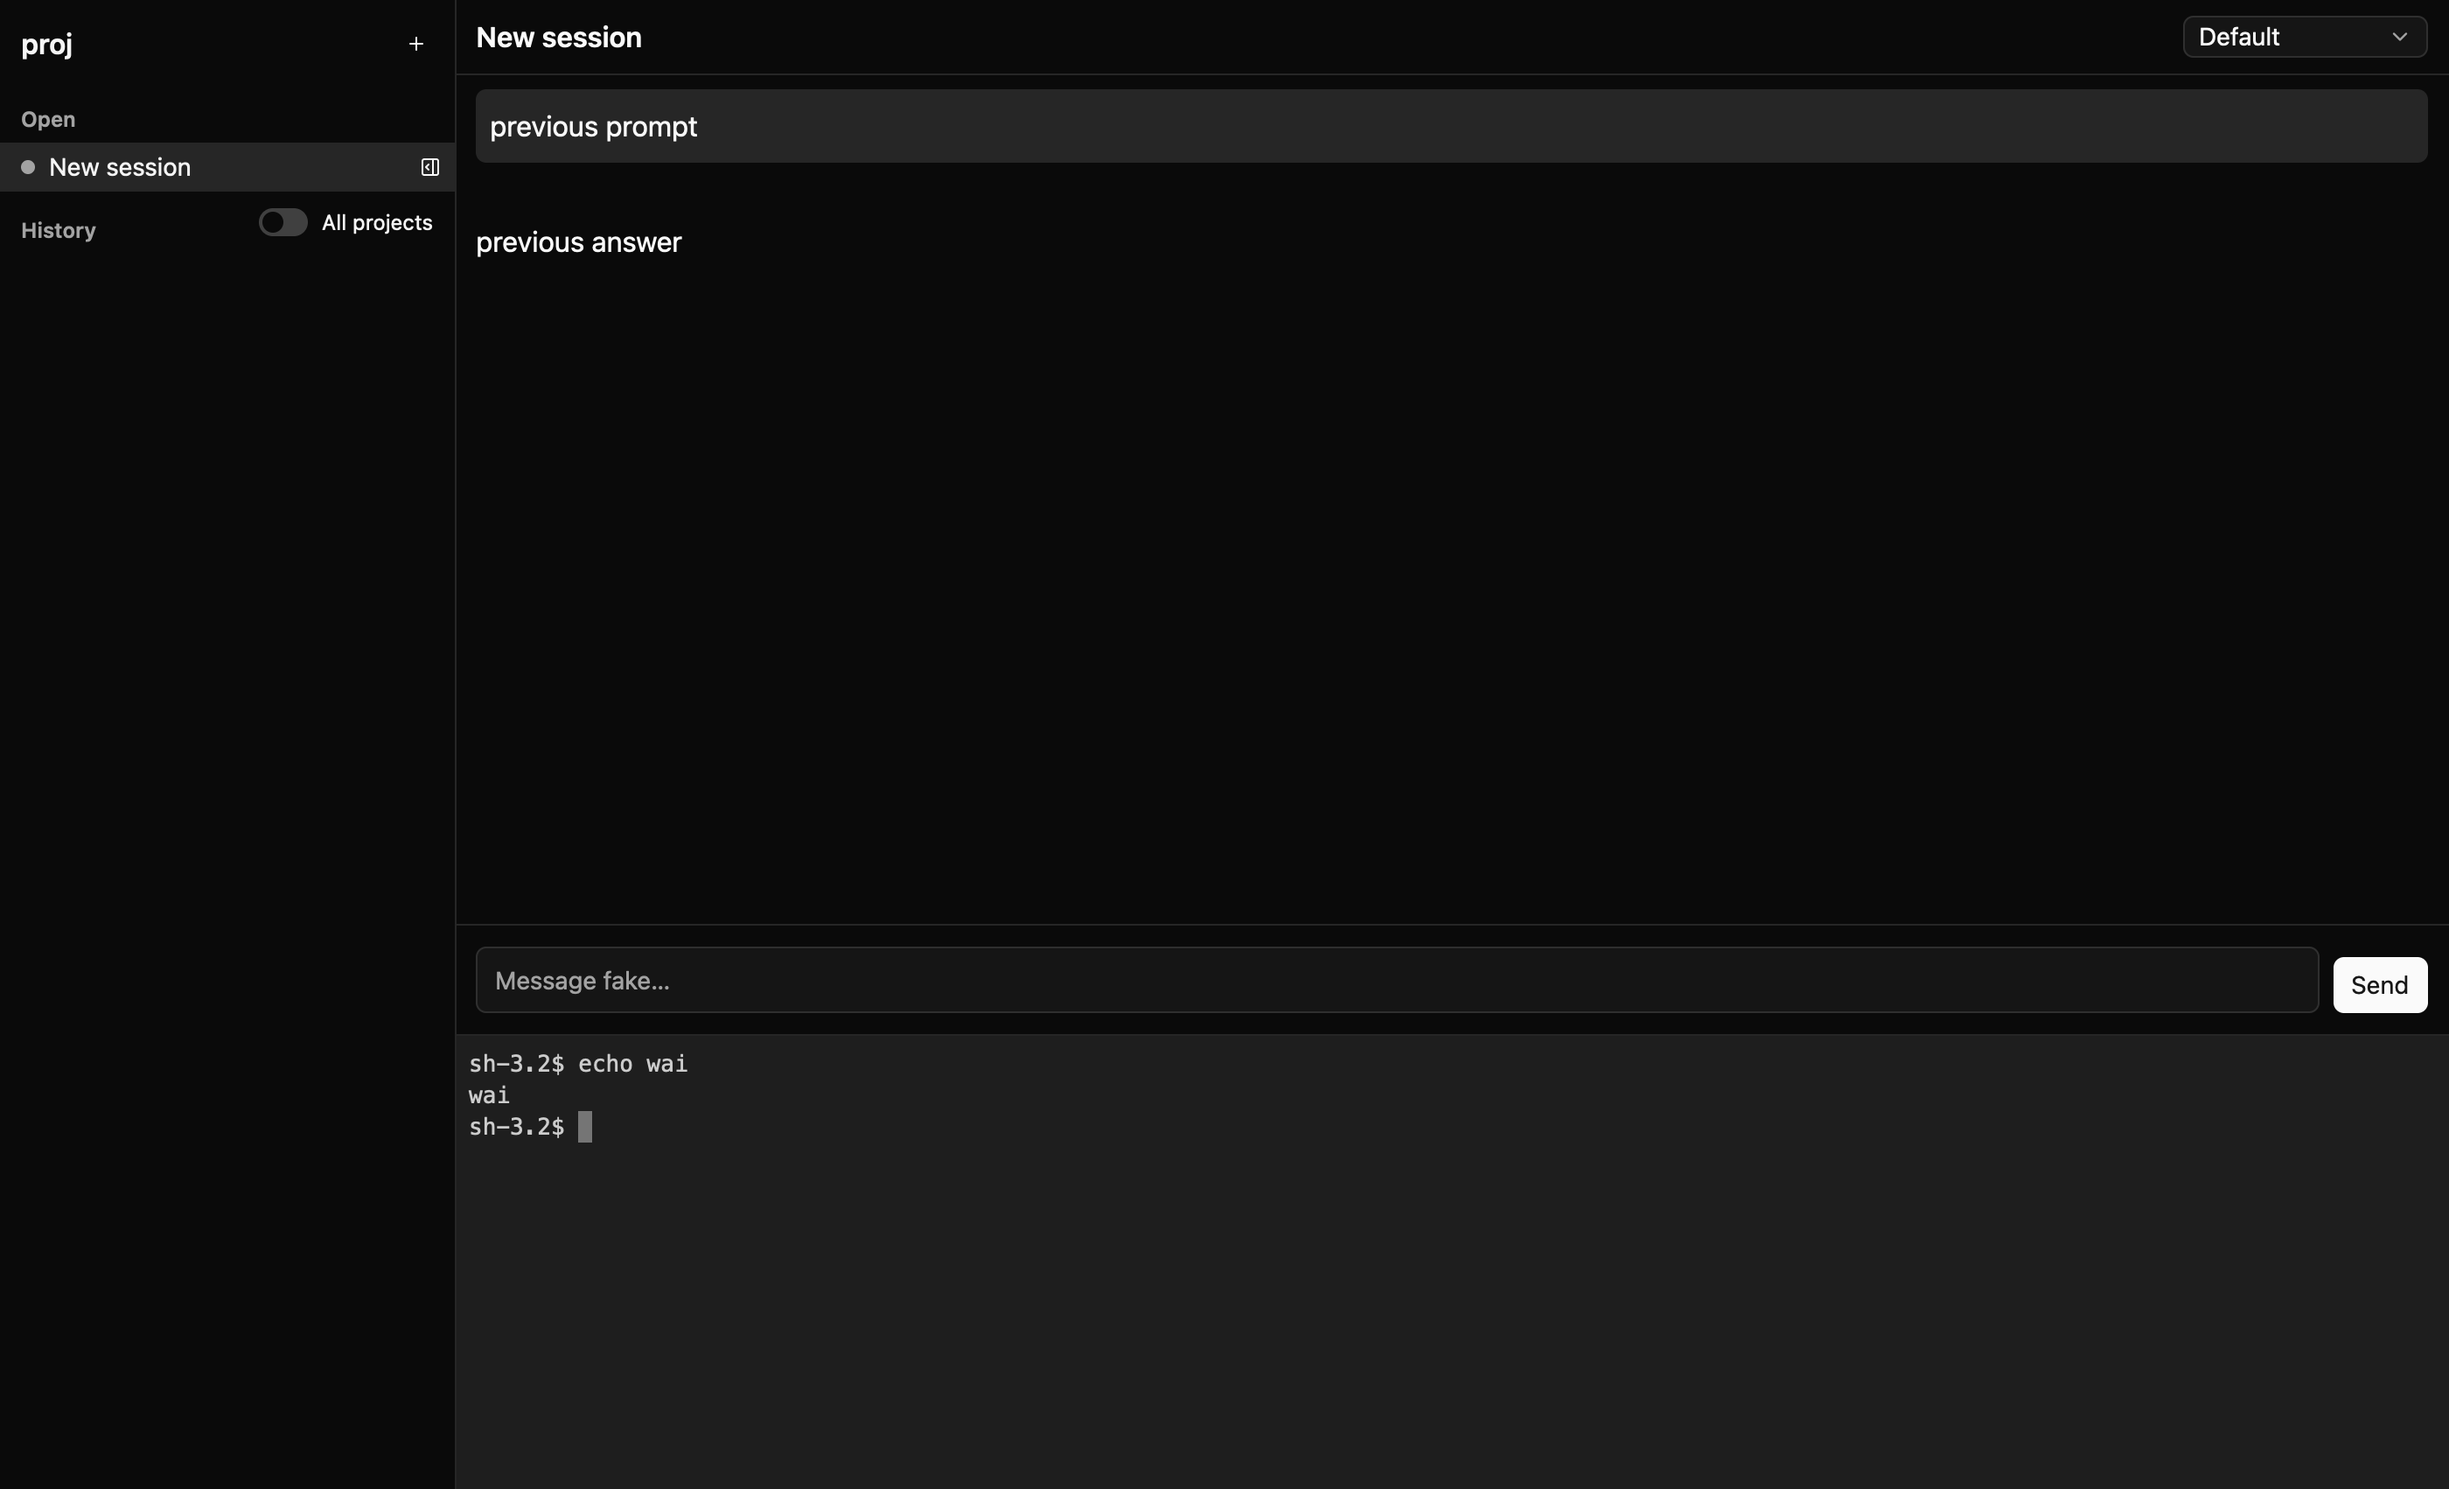
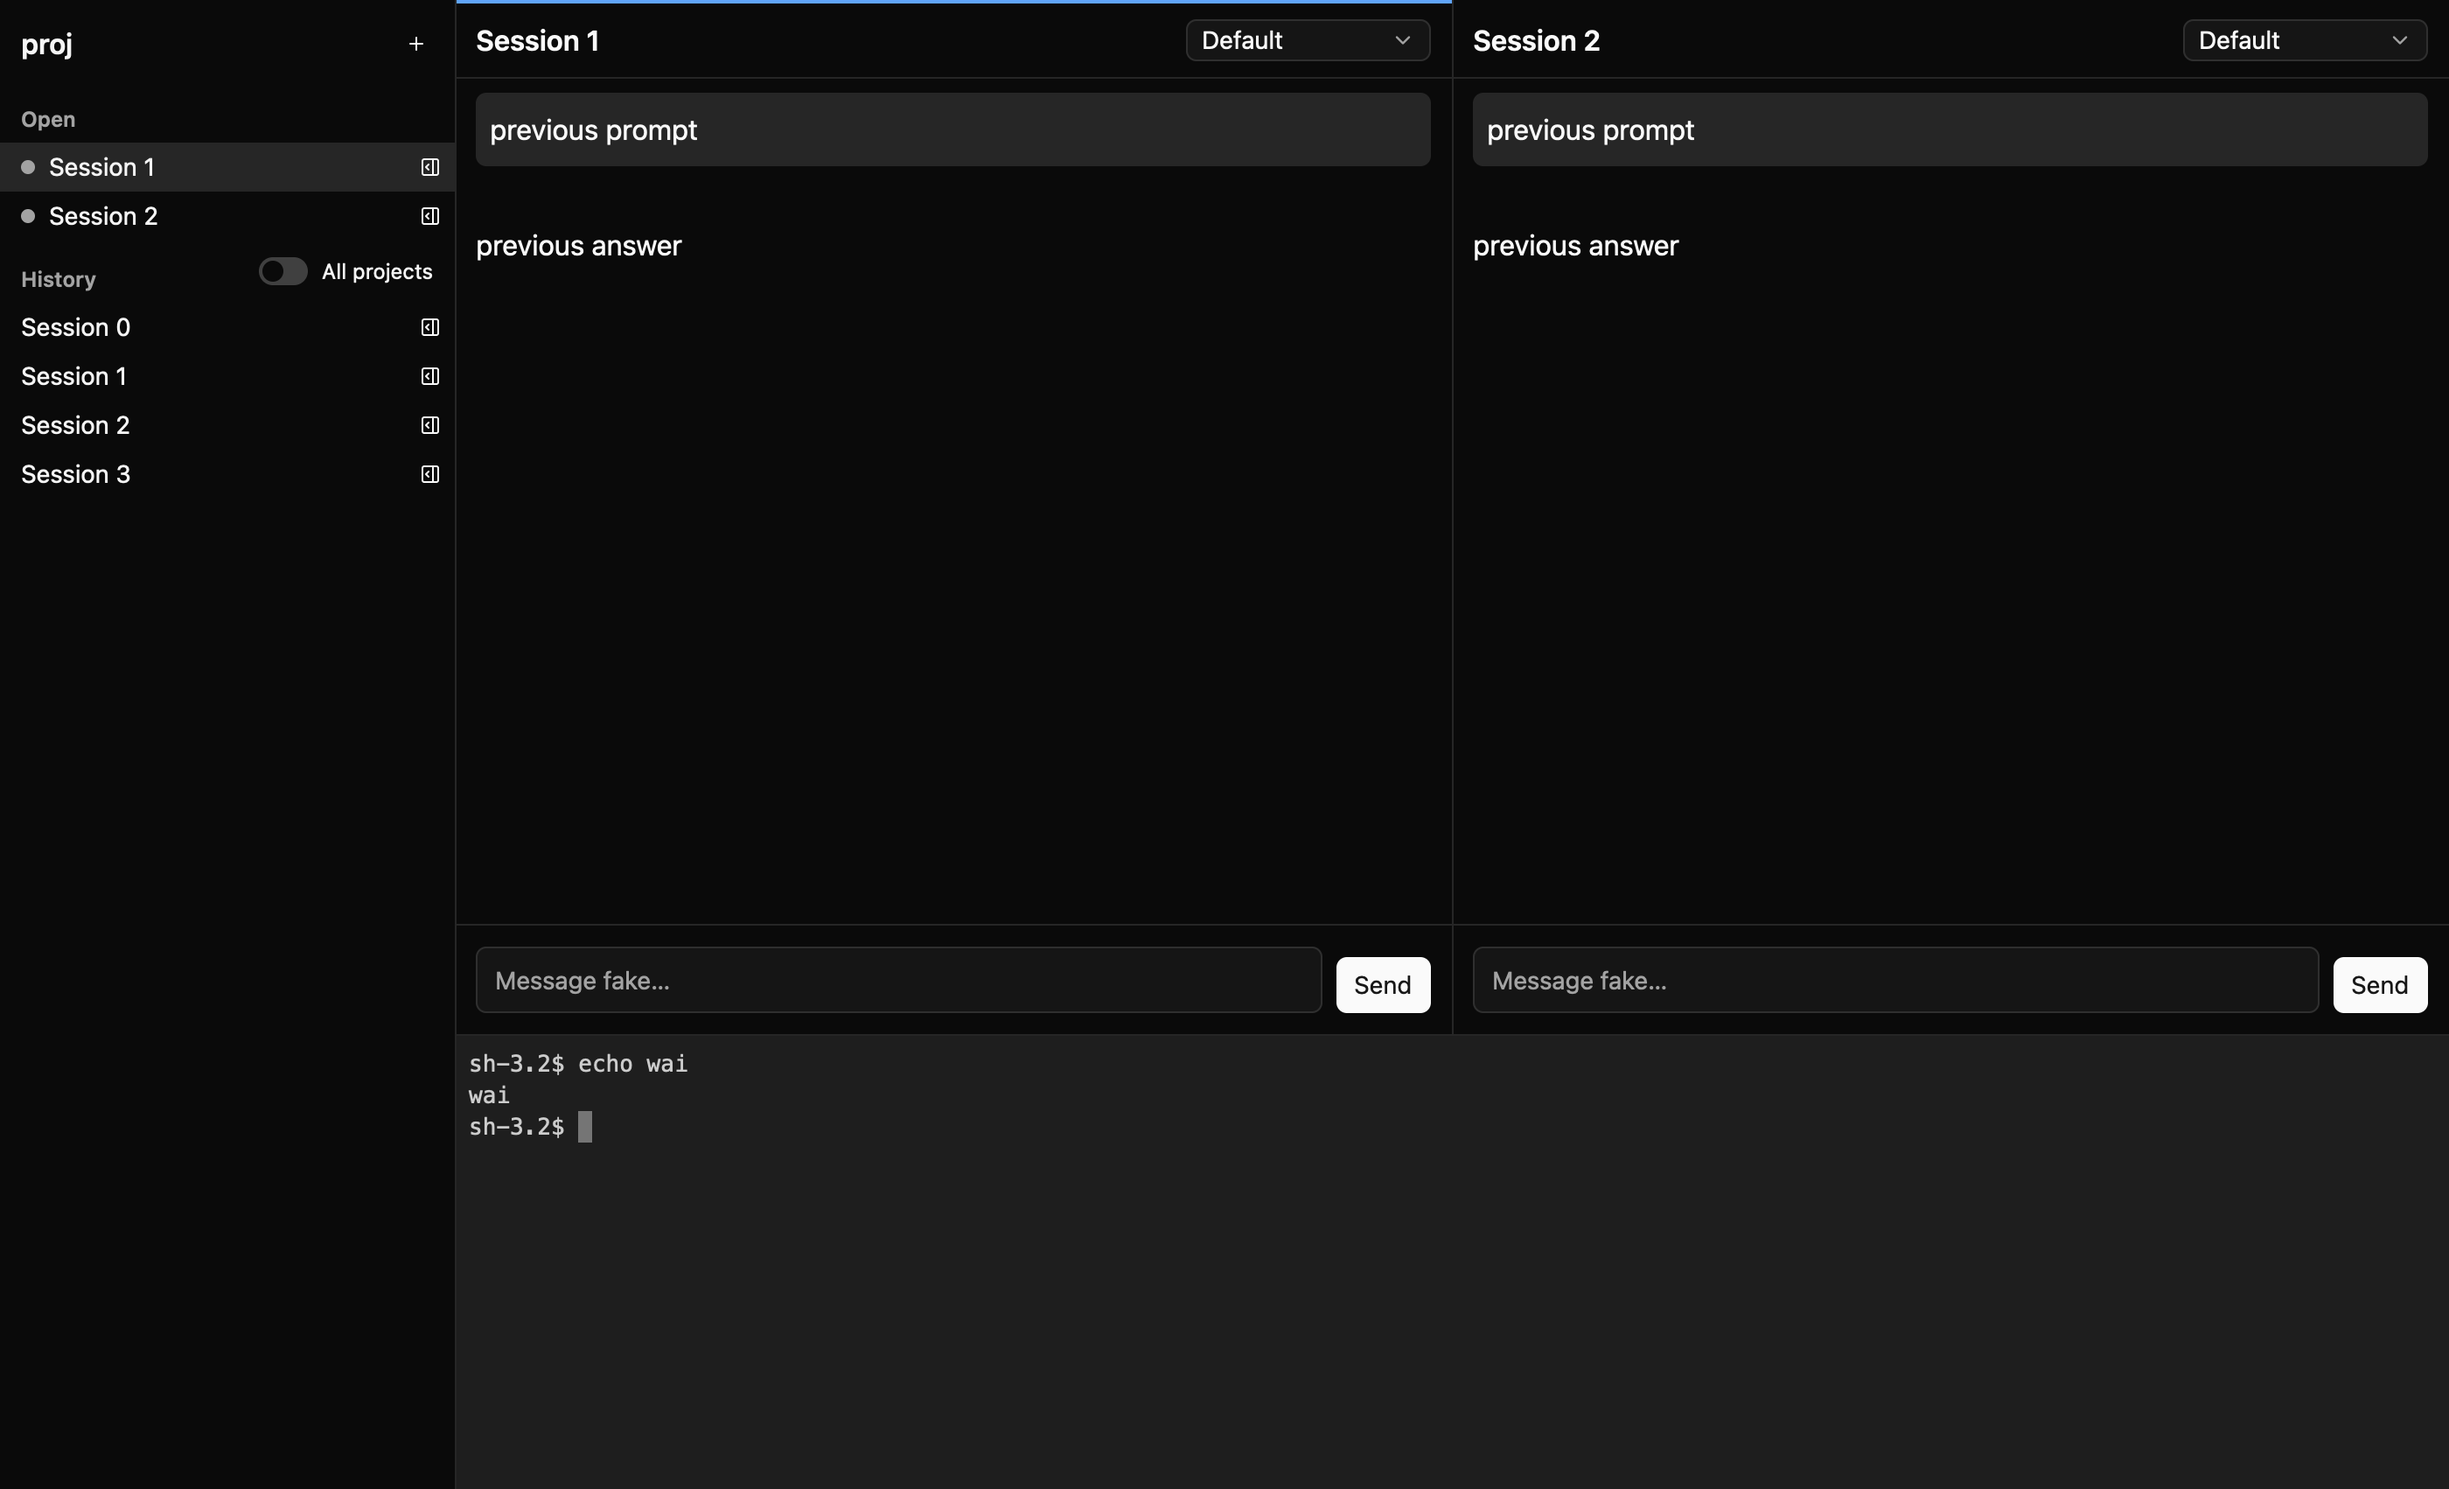
fix: show history titles for restored sessions

diff --git a/crates/wai/src/workspace.rs b/crates/wai/src/workspace.rs
@@ -996,6 +996,27 @@ pub(crate) mod tests {
         assert_eq!(notify::sent(), []);
     }
 
+    /// R14: the state keeps no titles; a restored session takes its title from the history.
+    #[gpui_kit::test]
+    fn restored_session_takes_history_title(cx: &mut TestAppContext) {
+        cx.executor().allow_parking(); // the fake agent is a real process
+        let dir = tempfile::tempdir().unwrap();
+        let path = dir.path().join("state.json");
+        let state = AppState {
+            open_sessions: vec![saved("fake", "session-1", 0)],
+            ..AppState::default()
+        };
+        state.save(&path).unwrap();
+        let (workspace, cx) = open_at(cx, history_settings(3), Some(path));
+
+        launch(&workspace, cx);
+
+        let session = pane_session(&workspace, 0, cx);
+        wait_until(cx, "the history title", |cx| {
+            session.read_with(cx, |s, _| s.model.title.as_deref() == Some("Session 1"))
+        });
+    }
+
     #[gpui_kit::test]
     fn restore_failure_shows_notice(cx: &mut TestAppContext) {
         cx.executor().allow_parking(); // the fake agent is a real process

diff --git a/crates/wai/src/sidebar.rs b/crates/wai/src/sidebar.rs
@@ -59,6 +59,20 @@ impl Workspace {
                 .await;
             this.update(cx, |this, cx| {
                 this.history = rows;
+                // R14: the saved state keeps no titles, so an untitled open session takes its
+                // history title; a title the agent sends later still replaces it.
+                for session in &this.sessions {
+                    session.update(cx, |s, cx| {
+                        if s.agent != agent || s.model.title.is_some() {
+                            return;
+                        }
+                        let row = this.history.iter().find(|(_, row)| row.id == s.id);
+                        if let Some((_, row)) = row {
+                            s.model.title = row.title.clone();
+                            cx.notify();
+                        }
+                    });
+                }
                 cx.notify();
             })
             .ok();
